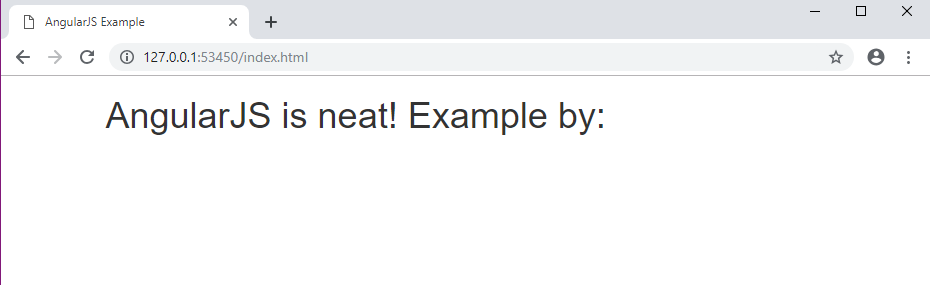
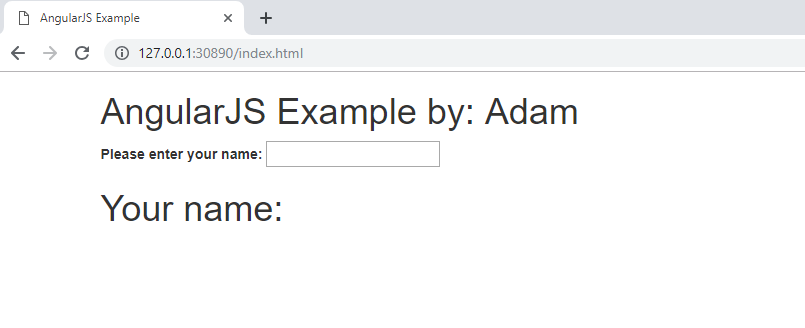
rough Draft of final paper

diff --git a/source/final/smith/index.rst b/source/final/smith/index.rst
@@ -69,7 +69,7 @@ AngularJS MVC
 Starting development in AngularJS is simple and easy. Going to `Angularjs.org <https://angularjs.org>`_
 and finding what version of AngularJS you want is simple. When you find the version you
 want to start developing in all you need to do is grab the URL of the file and stick it
-in your HTML file.
+in your HTML file. [Angular]_
 
 .. code-block:: html
 	:caption: Adding the script for AngularJS
@@ -140,8 +140,8 @@ the MVC is easy to understand with just a little example.
     // This is the View
     <html lang="en-us" ng-app="myApp">
 
-Adding the 'ng-app' is Angular's way of specifying a model the programmer will
-be able to control in the javascript. You can name it what ever you want, it just
+Adding the 'ng-app' is Angular's way of specifying a model/module the programmer will
+be able to control in javascript. You can name it what ever you want, it just
 has to be the same name in the javascript.
 
 .. code-block:: javascript
@@ -207,12 +207,16 @@ easy! consider the following:
                     string called name in the middle of the curly braces
                     which will have to match name of the variable in the
                     javascript you wish to fill it with-->
-                    <h1>AngularJS is neat! Example by: {{name}}</h1>
+                    <div>
+                        <label>Please enter your name:</label>
+                        <input type="text" ng-model="name" />
+                        <h1>Your name: {{name}}</h1>
+                    </div>
                 </div>
             </div>
         </body>
 
-    <script type="text/javascript" src="code.angularjs.org/1.7.8/angular.min.js"></script>
+    <script type="text/javascript" src="https://code.angularjs.org/1.7.0-rc.0/angular.min.js"></script>
     </html>
 
 .. image:: pictures/Data-Binding_Not_connected.PNG
@@ -224,13 +228,17 @@ There is a lot going on in this sample code. in the container div there is a
 'ng-controller' attribute which we will link to the javascript so we can start
 manipulating the DOM. This code will connect the two together:
 
+
 .. code-block:: javascript
     :caption: Connecting to the DOM with AngularJS
 
-    myApp.controller('mainController', function($scope){
-        $scope.name = 'Adam';
-    });
-
+    myApp.controller('mainController', ['$scope','$timeout',function($scope,$timeout)
+        $scope.name='';
+        //$timeout is AngularJS service that can wait x amount of milliseconds
+        //before performing a function, in this case I wanted to demo how
+        //the two way data binding worked
+        $timeout(funtion(){console.log($scope.name},5000);
+    )]);
 
 .. image:: pictures/Data-Binding_Connected.PNG
     :width: 800
@@ -243,21 +251,35 @@ names. The $scope variable represents a service offered by AngularJS. There are
 a whole collection of services that are offered and can be found at `Angularjs.org <https://angularjs.org>`_
 for documentation. The $scope is how Angular 'talks' to the DOM.
 
-  * SPA (Single Page Application)
 
-    * Why AngularJS is nice for SPA programming
-    * Maybe include code examples on how this is or a diagram
+Single Page Application (SPA)
+~~~~~~~~~~~~~~~~~~~~~~~~~~~~~
 
+Creating a multi-page application can be difficult and costly on the client's
+browser and the server serving the web pages. AngularJS solves this problem
+by dynamically changing the users view in the same web page. This eliminates
+the need to get another web page from the server and doesn't bring along the
+annoying page stuttering when navigating to a different page.
+
+AngularJS bundles all the code and views into one package and will dynamically
+load code based on what view the user is currently in. This makes the work load
+lighter on the server which speeds the website up significantly. Angular takes
+advantage of the client's computer to load the information on the website.
+
+Testing the web application also becomes much easier when there is only one page
+to test. This will allow testing suites to more easily test the web application
+when the development team deploys a new build. This also means rolling back
+changes is also easy, since everything is bundled together.  [Rajput]_
 
 Chaining Promises = Complicated
 ~~~~~~~~~~~~~~~~~~~~~~~~~~~~~~~
 
 AngularJS has some really incredible services and features, one of them being
-the ability to chain things called promises. This is important because javascript
-is asynchronous and you aren't really guaranteed an order of operation in some
-parts of the code. AngularJS can handle many events that may transpire while
-getting information over some kind of call over the internet. Here is a very
-simple example:
+the ability to chain functions together with a concept called called promises.
+This is important because javascript is asynchronous and you aren't really
+guaranteed an order of operation in some parts of the code. AngularJS can handle
+many events that may transpire while getting information over some kind of call
+over the internet. Here is a very simple example:
 
 .. code-block:: javascript
     :caption: Exmaple of Promise chaining
@@ -288,16 +310,24 @@ chaining them together as follows:
     //You can chain this for as long as you have stuff to do on the data
 
 It is not important to understand what the $http service is doing in this example,
-but how the chaining can go on and on. Some chains can get very complex but it can
-be very powerful. [Strahl]_
+but how the chaining can go on and on because every call returns an
+object which the programmer can call methods from the returned object.
+Some chains can get very complex but it can be very powerful. [Strahl]_
 
-Disadvantages
--------------
+Disadvantages of AngularJS
+--------------------------
 
-  * Explain the learning curve to creating AngularJS Application
-  * Discuss why Angular is costly
-  * User must enable JS or page doesnt really do anything or show anything
+AngularJS has a lot of complexity to the framework. One of the annoyances is
+having to allow javascript on your browser to be able to see the AngularJS
+application. With out javascript permissions the page will simply not load.
+Another major complexity will be the hierarchy of directives that the programmer
+will have to learn to make optimal use of AngularJS.
 
+AngularJS uses a MVC concept to create single page applications which could be
+very intimidating and hard if the programmer is not familiar with the concepts
+before hand. Another confusing aspect is keeping the scopes organized between
+the views in the web application. Each scope will contain different information
+depending on what view the user is currently in. [Rajput]_
 
 
 Sources
@@ -307,12 +337,10 @@ Sources
 
 .. [Angular] Angular.io "`Architecture overview <https://angular.io/guide/architecture>`_ "version 7.2.12-local+sha.d727561, Google, Web 4/2/2019
 
-.. [Tutorialspoint] Tutorialspoint.com "`AngularJS - Overview <https://www.tutorialspoint.com/angularjs/angularjs_overview.htm>`_ "Web 4/2/2019
-
-.. [Tutorialspoint] Tutorialspoint.com "`MVC Framework - Introduction <https://www.tutorialspoint.com/mvc_framework/mvc_framework_introduction.htm>`_ "Web 4/4/2019
+.. [Tutorialspoint] Tutorialspoint.com "`AngularJS - Overview <https://www.tutorialspoint.com/angularjs/angularjs_overview.htm>`_ "Web 4/2/2019, Tutorialspoint.com "`MVC Framework - Introduction <https://www.tutorialspoint.com/mvc_framework/mvc_framework_introduction.htm>`_ "Web 4/4/2019
 
 .. [Austin] Andrew Austin “`An Overview of AngularJS for Managers. <https://andrewaustin.com/an-overview-of-angularjs-for-managers/>`_” Andrew Austin, 14 Aug. 2014
 
-.. [Chansuwath] W. Chansuwath and T. Senivongse "`A model-driven development of web applications using AngularJS framework <https://ieeexplore.ieee.org/document/7550838/>`_ "2016 IEEE/ACIS 15th International Conference on Computer and Information Science (ICIS), Okayama, 2016, pp. 1-6.
-
 .. [Strahl] Strahl, Rick. “`AngularJs and Promises with the $Http Service. <https://ieeexplore.ieee.org/document/7550838/>`_ ” Rick Strahl's Web Log, Rick Strahl, Web 4/10/2019
+
+.. [Rajput]  Rajput, Mehul “`The Pros and Cons of Choosing AngularJS. <https://jaxenter.com/the-pros-and-cons-of-choosing-angularjs-124850.html>`_ ” JAXenter, 21 Mar. 2016
